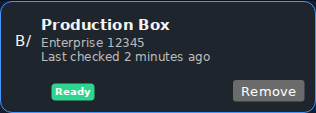
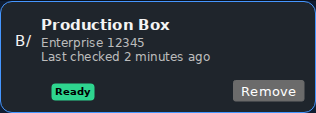
fix: keep slotted status descriptions live and ground accessible paint

Changed region(s): [[0.1709, 0.7699, 0.2848, 0.8761]]

diff --git a/tools/bue-conformance/color-manifest.ts b/tools/bue-conformance/color-manifest.ts
@@ -358,7 +358,7 @@ export const COLOR_CLAIMS: readonly ColorClaim[] = [
     boeValue: T.SurfaceStatusSurfaceSuccess,
     kind: "color",
     boeComponent: BADGE,
-    boeAnchor: "background: var(--boe-token-surface-status-surface-success, #26c281)",
+    boeAnchor: "--badge-fill: var(--boe-token-surface-status-surface-success, #26c281)",
     upstream: { selector: ".badge-success", state: "base", property: "background" },
     tolerance: 0,
     citation: ".badge-success background",
@@ -370,7 +370,7 @@ export const COLOR_CLAIMS: readonly ColorClaim[] = [
     boeValue: T.SurfaceStatusSurfaceError,
     kind: "color",
     boeComponent: BADGE,
-    boeAnchor: "background: var(--boe-token-surface-status-surface-error, #ed3757)",
+    boeAnchor: "--badge-fill: var(--boe-token-surface-status-surface-error, #ed3757)",
     upstream: { selector: ".badge-error", state: "base", property: "background" },
     tolerance: 0,
     citation: ".badge-error background",
@@ -382,7 +382,7 @@ export const COLOR_CLAIMS: readonly ColorClaim[] = [
     boeValue: T.SurfaceStatusSurfaceInprogress,
     kind: "color",
     boeComponent: BADGE,
-    boeAnchor: "background: var(--boe-token-surface-status-surface-inprogress, #f5b31b)",
+    boeAnchor: "--badge-fill: var(--boe-token-surface-status-surface-inprogress, #f5b31b)",
     upstream: { selector: ".badge-warning", state: "base", property: "background" },
     tolerance: 0,
     citation: ".badge-warning background (box-open-elements inprogress/warning tone)",
@@ -395,7 +395,7 @@ export const COLOR_CLAIMS: readonly ColorClaim[] = [
     kind: "color",
     boeComponent: BADGE,
     boeAnchor:
-      "background: color-mix(in srgb, var(--boe-token-surface-surface-brand, #0061d5) 50%, #fff)",
+      "--badge-fill: color-mix(in srgb, var(--boe-token-surface-surface-brand, #0061d5) 50%, #fff)",
     // ±1 per channel: the 50/50 sRGB mix lands on #80b0ea (127.5 → 128); upstream
     // authored #7fb0ea (127). Same design intent, sub-perceptual rounding.
     upstream: { selector: ".badge-info", state: "base", property: "background" },
@@ -406,13 +406,14 @@ export const COLOR_CLAIMS: readonly ColorClaim[] = [
     id: "badge.status.text",
     surface: "badge/status",
     boeConst: "badge.ts status tone text",
-    boeValue: "#ffffff",
+    boeValue: "#07100c",
     kind: "color",
     boeComponent: BADGE,
-    boeAnchor: "color: #ffffff",
+    boeAnchor: "color: #07100c",
     upstream: { selector: ".badge-success", state: "base", property: "color" },
     tolerance: 0,
-    citation: ".badge-success color",
+    citation: ".badge-success color (accessible opaque-fill fallback)",
+    accessibilityRationale: "PR515: legacy white small-label text fails contrast on the unchanged success/error/amber/info fills. Dark fallback passes the built-in and Dispatch light/dark palettes at 4.5:1; supported browsers adapt black/white to the actual opaque fill. Real Chrome/Firefox theme, fallback and dark-fill evidence is preserved in the PR515 review handoff.",
   },
 
   // === Menu item selected (box-menu-item[data-selected]) ↔ `.menu-item.is-active` ===

diff --git a/src/components/collections/resource-row.ts b/src/components/collections/resource-row.ts
@@ -45,7 +45,7 @@ export class ResourceRow extends BaseElement {
   get disabled(): boolean { return this.hasAttribute("disabled"); }
   set disabled(value: boolean) { this.toggleAttribute("disabled", value); }
   protected renderTemplate(): void {
-    this.shadowRoot!.innerHTML = `<style>${styles}</style><div part="row"><button part="select" type="button"><slot name="icon"></slot><span part="body"><span part="label"></span><span part="meta"></span></span></button><span part="trailing"><span part="status"></span><slot name="status"></slot><slot name="actions"></slot></span></div>`;
+    this.shadowRoot!.innerHTML = `<style>${styles}</style><div part="row"><button part="select" type="button"><slot name="icon"></slot><span part="body"><span part="label"></span><span part="meta"></span></span></button><span part="trailing"><span part="status" id="row-status-text"></span><slot name="status" id="row-status-slot"></slot><slot name="actions"></slot></span></div>`;
     this.selectEl = this.shadowRoot!.querySelector('[part="select"]')!;
     this.labelEl = this.shadowRoot!.querySelector('[part="label"]')!;
     this.metaEl = this.shadowRoot!.querySelector('[part="meta"]')!;
@@ -65,14 +65,16 @@ export class ResourceRow extends BaseElement {
     this.selectEl.setAttribute("aria-pressed", String(this.selected));
     // The native button derives its name from its visible label and metadata.
     this.selectEl.removeAttribute("aria-label");
-    const slottedStatus = this.statusSlot.assignedNodes({ flatten: true }).map(node =>
-      node instanceof Element
-        ? node.getAttribute("aria-label") ?? node.getAttribute("label") ?? node.textContent ?? ""
-        : node.textContent ?? "",
-    ).map(value => value.trim()).filter(Boolean).join(" ");
-    const spokenStatus = this.statusSlot.assignedElements().length > 0 ? slottedStatus : this.status;
-    if (spokenStatus) this.selectEl.setAttribute("aria-description", spokenStatus);
-    else this.selectEl.removeAttribute("aria-description");
+    // Refer to the visible status node rather than copying its current text:
+    // a slotted badge can update after the row, without emitting slotchange.
+    this.selectEl.removeAttribute("aria-description");
+    if (this.statusSlot.assignedElements().length > 0) {
+      this.selectEl.setAttribute("aria-describedby", "row-status-slot");
+    } else if (this.status) {
+      this.selectEl.setAttribute("aria-describedby", "row-status-text");
+    } else {
+      this.selectEl.removeAttribute("aria-describedby");
+    }
   }
 }
 

diff --git a/test/components/collections/resource-row.test.ts b/test/components/collections/resource-row.test.ts
@@ -27,7 +27,7 @@ describe("box-resource-row", () => {
     expect(select.hasAttribute("aria-label")).toBe(false);
     expect(select.textContent).toContain("Production Box");
     expect(select.textContent).toContain("Enterprise 12345");
-    expect(select.getAttribute("aria-description")).toBe("Ready");
+    expect(select.getAttribute("aria-describedby")).toBe("row-status-text");
     expect(select.getAttribute("aria-pressed")).toBe("false");
     select.click();
     row.querySelector("button")!.click();
@@ -52,8 +52,8 @@ describe("box-resource-row", () => {
     row.append(badge);
     row.shadowRoot!.querySelector<HTMLSlotElement>('slot[name="status"]')!
       .dispatchEvent(new Event("slotchange"));
-    expect(row.shadowRoot!.querySelector("button")!.getAttribute("aria-description"))
-      .toContain("Ready for deployment");
+    expect(row.shadowRoot!.querySelector("button")!.getAttribute("aria-describedby"))
+      .toBe("row-status-slot");
   });
   it("describes the visible slotted status instead of a hidden fallback", () => {
     const row = mount();
@@ -64,16 +64,22 @@ describe("box-resource-row", () => {
     row.shadowRoot!.querySelector<HTMLSlotElement>('slot[name="status"]')!
       .dispatchEvent(new Event("slotchange"));
     const select = row.shadowRoot!.querySelector("button")!;
-    expect(select.getAttribute("aria-description")).toBe("Checking");
+    expect(select.getAttribute("aria-describedby")).toBe("row-status-slot");
+    row.status = "Failed";
+    status.textContent = "Failed";
+    expect(select.getAttribute("aria-describedby")).toBe("row-status-slot");
+    expect(row.shadowRoot!.getElementById("row-status-slot"))
+      .toBe(row.shadowRoot!.querySelector('slot[name="status"]'));
+    row.status = "Ready";
     row.meta = "Updated account";
     expect(select.hasAttribute("aria-label")).toBe(false);
     expect(select.textContent).toContain("Updated account");
     status.remove();
     row.shadowRoot!.querySelector<HTMLSlotElement>('slot[name="status"]')!
       .dispatchEvent(new Event("slotchange"));
-    expect(select.getAttribute("aria-description")).toBe("Ready");
+    expect(select.getAttribute("aria-describedby")).toBe("row-status-text");
     row.status = "";
-    expect(select.hasAttribute("aria-description")).toBe(false);
+    expect(select.hasAttribute("aria-describedby")).toBe(false);
   });
   it("defines a narrow-width stacking rule", () => {
     expect(rowStyle(mount())).toContain("@container (max-width: 320px)");

diff --git a/test/tools/bue-conformance-color.test.ts b/test/tools/bue-conformance-color.test.ts
@@ -599,15 +599,27 @@ describe("evaluate", () => {
     expect(byId("button.primary.hover.background").delta).toBe(21);
   });
 
-  it("yields the expected verdict mix including two accessibility improvements", () => {
+  it("yields the expected verdict mix including the grounded accessible badge foreground", () => {
     const conformant = rows.filter(r => r.verdict === "conformant").length;
     const accepted = rows.filter(r => r.verdict === "accepted-divergence").length;
     const review = rows.filter(r => r.verdict === "review").length;
     expect({ conformant, accepted, review }).toEqual({
-      conformant: 53,
-      accepted: 11,
+      conformant: 52,
+      accepted: 12,
       review: 0,
     });
+  });
+
+  it("keeps all opaque fills conformant and accepts only the documented foreground delta", () => {
+    for (const id of ["badge.success.background", "badge.error.background", "badge.inprogress.background", "badge.info.background"]) {
+      expect(rows.find(row => row.claim.id === id)?.verdict, id).toBe("conformant");
+    }
+    const text = rows.find(row => row.claim.id === "badge.status.text")!;
+    expect(text.verdict).toBe("accepted-divergence");
+    expect(text.boeCanonical).toBe("rgba(7, 16, 12, 1)");
+    expect(text.claim.accessibilityRationale).toContain("PR515");
+    expect(rows).toHaveLength(64);
+    expect(rows.every(row => row.verdict === "conformant" || row.verdict === "accepted-divergence")).toBe(true);
   });
 
   it("resolves the round-8 surfaces (alert, breadcrumb, chip)", () => {
@@ -793,8 +805,8 @@ describe("renderMarkdown", () => {
     const md = renderMarkdown(rows, ["main.abc.iframe.bundle.js"]);
     expect(md).toContain("Layer 2");
     expect(md).toContain("**1**");
-    expect(md).toContain("| ✅ Conformant | 53 |");
-    expect(md).toContain("| 🎯 Accepted divergence | 11 |");
+    expect(md).toContain("| ✅ Conformant | 52 |");
+    expect(md).toContain("| 🎯 Accepted divergence | 12 |");
     expect(md).toContain("| 🔍 Review | 0 |");
     for (const claim of COLOR_CLAIMS) {
       expect(md).toContain(claim.citation);

diff --git a/docs/components/resource-row.md b/docs/components/resource-row.md
@@ -18,8 +18,9 @@ with each row in an `<li>`) when a row also has actions.
 ```
 
 The inner selection button derives its accessible name from the visible label
-and metadata. `aria-pressed` reports selection; `aria-description` supplies the
-status without repeating the metadata. Enter/Space activate it and emit `select` with `{ value }`; the host
+and metadata. `aria-pressed` reports selection; `aria-describedby` references the visible
+status without repeating the metadata. Slotted status text or label changes stay
+current even when they follow a row update. Enter/Space activate it and emit `select` with `{ value }`; the host
 sets `selected` after accepting that event. Actions in the `actions` slot keep
 their own focus, name and events and never emit `select`. `disabled` disables
 only selection; action availability remains the host's decision. `active` is a
